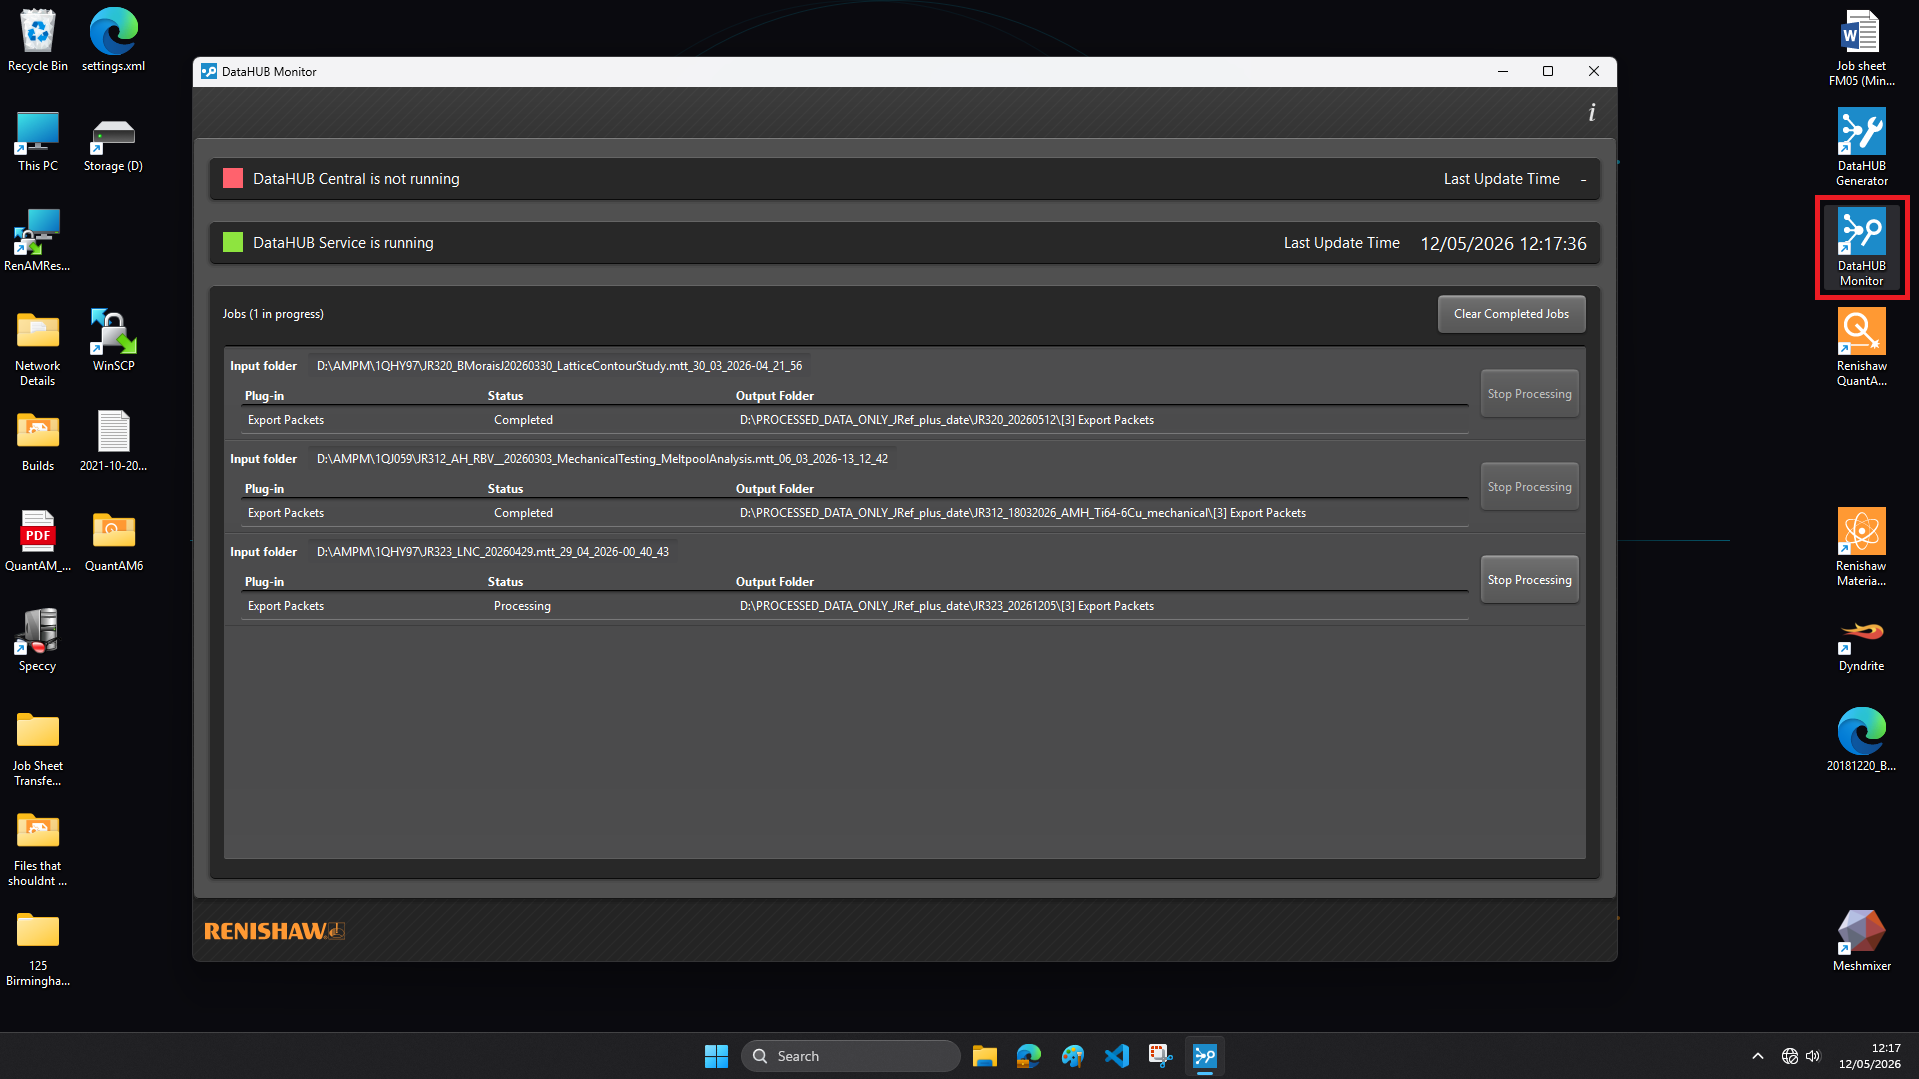
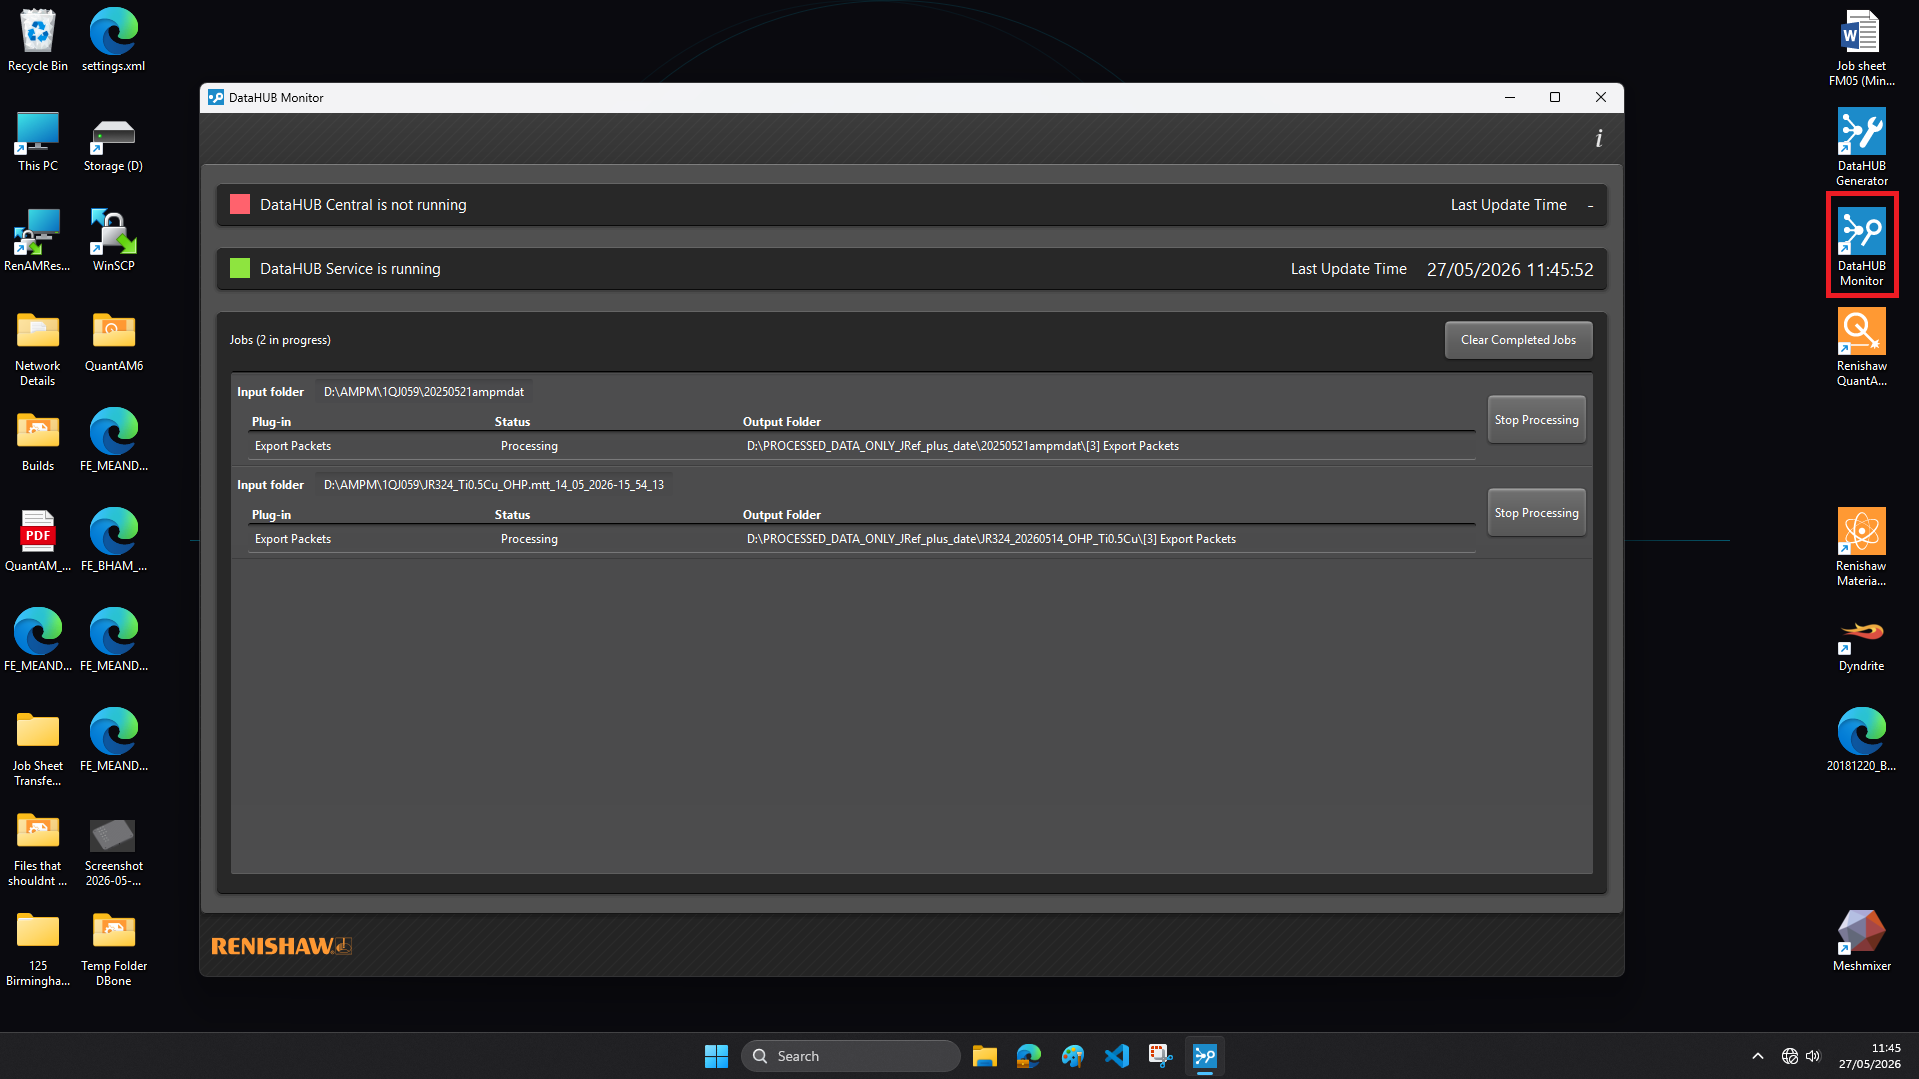
Update DATAHUB.md

Changed region(s): [[0.0, 0.0306, 0.8609, 0.9175], [0.9224, 0.1529, 1.0, 0.2753]]

diff --git a/docs/DATAHUB.md b/docs/DATAHUB.md
@@ -22,7 +22,7 @@ Then, create a folder in `D:\PROCESSED_DATA_ONLY_JRef_plus_date\` with the job r
 
 ![Step 2b](images/02b_populate.png)
 
-The other fields should populate themselves, but if they don't you can just set them manually. Note, DataHUB _requires_ a description of some kind to proceed.
+The other fields should populate themselves, but if they don't you can just set them manually. Note, DataHUB _requires_ a description of some kind to proceed. Click  **Configure** once set.
 
 ---
 